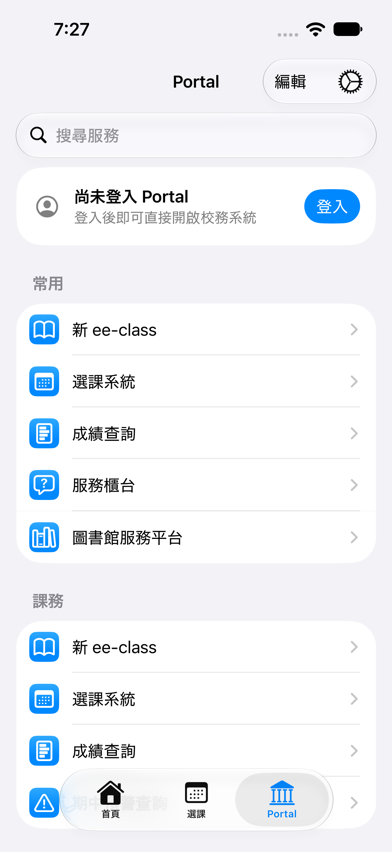
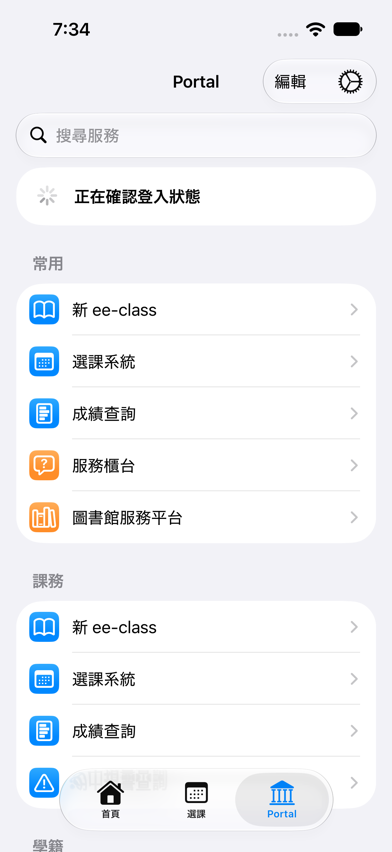
feat(portal): color services by category
Each Portal category gets its own tint, carried by its services so a
favorite keeps its category's color. iOS maps tints to system colors;
Android takes the matching pair from the timetable palette.

diff --git a/shared/src/commonMain/kotlin/org/mpc/data/portal/PortalShortcutCatalog.kt b/shared/src/commonMain/kotlin/org/mpc/data/portal/PortalShortcutCatalog.kt
@@ -5,12 +5,14 @@ import org.mpc.domain.model.PortalShortcutDestination
 import org.mpc.domain.model.PortalShortcutIcon
 import org.mpc.domain.model.PortalShortcutItem
 import org.mpc.domain.model.PortalShortcutSection
+import org.mpc.domain.model.PortalShortcutTint
 import org.mpc.domain.model.portalUrl
 
 /** Every Portal service the app lists, each once, grouped by what it is for. */
 val defaultPortalShortcutSections: List<PortalShortcutSection> = listOf(
-    PortalShortcutSection(
+    section(
         title = "課務",
+        tint = PortalShortcutTint.BLUE,
         items = listOf(
             portalShortcut("新 ee-class", PortalShortcutIcon.BOOK, "/system/ncueeclass"),
             shortcut("選課系統", PortalShortcutIcon.EVENT, "https://cis.ncu.edu.tw/Course/"),
@@ -18,16 +20,18 @@ val defaultPortalShortcutSections: List<PortalShortcutSection> = listOf(
             portalShortcut("期中預警查詢", PortalShortcutIcon.WARNING, "/system/incu-ewarningstudent"),
         ),
     ),
-    PortalShortcutSection(
+    section(
         title = "學籍",
+        tint = PortalShortcutTint.PURPLE,
         items = listOf(
             portalShortcut("學籍系統", PortalShortcutIcon.ACCOUNT_BALANCE, "/system/incu-registrationflow"),
             portalShortcut("畢業資格審查", PortalShortcutIcon.SCHOOL, "/system/incu-graduate-2"),
             portalShortcut("學生證掛失", PortalShortcutIcon.CREDIT_CARD_OFF, "/system/32"),
         ),
     ),
-    PortalShortcutSection(
+    section(
         title = "學費與補助",
+        tint = PortalShortcutTint.GREEN,
         items = listOf(
             portalShortcut("學費繳費單", PortalShortcutIcon.REQUEST_QUOTE, "/system/82"),
             portalShortcut("學費繳費證明", PortalShortcutIcon.REQUEST_QUOTE, "/system/tuition"),
@@ -36,8 +40,9 @@ val defaultPortalShortcutSections: List<PortalShortcutSection> = listOf(
             portalShortcut("撥帳系統", PortalShortcutIcon.ACCOUNT_BALANCE, "/system/46"),
         ),
     ),
-    PortalShortcutSection(
+    section(
         title = "校園服務",
+        tint = PortalShortcutTint.ORANGE,
         items = listOf(
             portalShortcut("服務櫃台", PortalShortcutIcon.SUPPORT_AGENT, "/system/incu"),
             portalShortcut("圖書館服務平台", PortalShortcutIcon.LOCAL_LIBRARY, "/system/library-cloud-services"),
@@ -45,8 +50,9 @@ val defaultPortalShortcutSections: List<PortalShortcutSection> = listOf(
             portalShortcut("人事系統", PortalShortcutIcon.BADGE, "/system/humanoauth"),
         ),
     ),
-    PortalShortcutSection(
+    section(
         title = "網路與帳號",
+        tint = PortalShortcutTint.TEAL,
         items = listOf(
             portalShortcut("NCU Mail", PortalShortcutIcon.MAIL, "/system/129"),
             portalShortcut("宿舍網路", PortalShortcutIcon.WIFI, "/system/dormnet"),
@@ -87,18 +93,29 @@ fun portalLoginDestination(url: String = PORTAL_HOME_URL): PortalShortcutDestina
     url = url,
 )
 
+private typealias TintedShortcut = (PortalShortcutTint) -> PortalShortcutItem
+
+private fun section(
+    title: String,
+    tint: PortalShortcutTint,
+    items: List<TintedShortcut>,
+): PortalShortcutSection = PortalShortcutSection(title = title, items = items.map { it(tint) })
+
 private fun portalShortcut(
     label: String,
     icon: PortalShortcutIcon,
     path: String,
-): PortalShortcutItem = shortcut(label, icon, portalUrl(path))
+): TintedShortcut = shortcut(label, icon, portalUrl(path))
 
 private fun shortcut(
     label: String,
     icon: PortalShortcutIcon,
     url: String,
-): PortalShortcutItem = PortalShortcutItem(
-    label = label,
-    icon = icon,
-    destination = PortalShortcutDestination(title = label, url = url),
-)
+): TintedShortcut = { tint ->
+    PortalShortcutItem(
+        label = label,
+        icon = icon,
+        tint = tint,
+        destination = PortalShortcutDestination(title = label, url = url),
+    )
+}

diff --git a/shared/src/commonMain/kotlin/org/mpc/presentation/PortalScreen.kt b/shared/src/commonMain/kotlin/org/mpc/presentation/PortalScreen.kt
@@ -61,6 +61,7 @@ import androidx.compose.ui.Modifier
 import androidx.compose.ui.draw.clip
 import androidx.compose.ui.graphics.Color
 import androidx.compose.ui.graphics.Shape
+import androidx.compose.ui.graphics.luminance
 import androidx.compose.ui.graphics.vector.ImageVector
 import androidx.compose.ui.text.style.TextAlign
 import androidx.compose.ui.text.style.TextOverflow
@@ -72,6 +73,7 @@ import org.mpc.domain.model.PortalShortcutDestination
 import org.mpc.domain.model.PortalShortcutIcon
 import org.mpc.domain.model.PortalShortcutItem
 import org.mpc.domain.model.PortalShortcutSection
+import org.mpc.presentation.theme.platformTimetablePalette
 import org.mpc.presentation.viewModel.PortalViewModel
 
 @Composable
@@ -293,7 +295,7 @@ private fun PortalShortcutRow(
 ) {
     ListItem(
         headlineContent = { Text(item.label, maxLines = 1, overflow = TextOverflow.Ellipsis) },
-        leadingContent = { PortalShortcutBadge(item.icon) },
+        leadingContent = { PortalShortcutBadge(item) },
         trailingContent = trailingContent,
         colors = ListItemDefaults.colors(containerColor = MaterialTheme.colorScheme.surfaceContainerLow),
         modifier = Modifier
@@ -304,22 +306,30 @@ private fun PortalShortcutRow(
     )
 }
 
+/** The icon on its category color, taken from the palette the timetable uses so the app shares one set of hues. */
 @Composable
-private fun PortalShortcutBadge(icon: PortalShortcutIcon) {
+private fun PortalShortcutBadge(item: PortalShortcutItem) {
+    val palette = platformTimetablePalette(
+        MaterialTheme.colorScheme.background.luminance() < DARK_SURFACE_LUMINANCE_THRESHOLD,
+    )
+    // The palette lists BLUE, GREEN, ORANGE, PURPLE, TEAL first, matching the tint order.
+    val colors = palette[item.tint.ordinal % palette.size]
     Box(
         modifier = Modifier
             .size(40.dp)
-            .background(MaterialTheme.colorScheme.secondaryContainer, CircleShape),
+            .background(colors.container, CircleShape),
         contentAlignment = Alignment.Center,
     ) {
         Icon(
-            imageVector = icon.toImageVector(),
+            imageVector = item.icon.toImageVector(),
             contentDescription = null,
-            tint = MaterialTheme.colorScheme.onSecondaryContainer,
+            tint = colors.content,
             modifier = Modifier.size(22.dp),
         )
     }
 }
+
+private const val DARK_SURFACE_LUMINANCE_THRESHOLD = 0.5f
 
 @Composable
 private fun FavoriteEditControls(

diff --git a/iosApp/iosApp/presentation/PortalView.swift b/iosApp/iosApp/presentation/PortalView.swift
@@ -107,7 +107,7 @@ struct PortalView: View {
             Label {
                 Text(item.label)
             } icon: {
-                PortalShortcutIconView(icon: item.icon)
+                PortalShortcutIconView(icon: item.icon, tint: item.tint)
             }
         }
         .contextMenu { favoriteButton(item, isFavorite: isFavorite) }
@@ -218,13 +218,14 @@ private struct PortalAccountRow: View {
 
 private struct PortalShortcutIconView: View {
     let icon: PortalShortcutIcon
+    let tint: PortalShortcutTint
 
     var body: some View {
         Image(systemName: icon.systemImage)
             .font(.system(size: 15, weight: .semibold))
             .foregroundStyle(.white)
             .frame(width: 30, height: 30)
-            .background(Color.accentColor.gradient, in: .rect(cornerRadius: 7, style: .continuous))
+            .background(tint.color.gradient, in: .rect(cornerRadius: 7, style: .continuous))
             .accessibilityHidden(true)
     }
 }
@@ -235,6 +236,18 @@ private extension PortalAccountAction {
         case .signIn: "登入"
         case .signOut: "登出"
         case .retry: "重試"
+        }
+    }
+}
+
+private extension PortalShortcutTint {
+    var color: Color {
+        switch self {
+        case .blue: .blue
+        case .green: .green
+        case .orange: .orange
+        case .purple: .purple
+        case .teal: .teal
         }
     }
 }

diff --git a/shared/src/commonTest/kotlin/org/mpc/data/portal/PortalShortcutCatalogTest.kt b/shared/src/commonTest/kotlin/org/mpc/data/portal/PortalShortcutCatalogTest.kt
@@ -50,6 +50,12 @@ val portalShortcutCatalogTests by testSuite {
         assertEquals("https://cis.ncu.edu.tw/Course/", item.destination.url)
     }
 
+    test("each category has its own color, shared by its services") {
+        val tints = defaultPortalShortcutSections.map { section -> section.items.map { it.tint }.distinct().single() }
+
+        assertEquals(tints.distinct(), tints)
+    }
+
     test("the catalog lists each service once and every default favorite") {
         val ids = defaultPortalShortcutSections.flatMap { section -> section.items.map { it.id } }
 

diff --git a/shared/src/commonMain/kotlin/org/mpc/domain/model/PortalShortcut.kt b/shared/src/commonMain/kotlin/org/mpc/domain/model/PortalShortcut.kt
@@ -29,9 +29,19 @@ data class PortalShortcutDestination(
     val url: String,
 )
 
+/** A category color. Each platform maps it to its own system palette. */
+enum class PortalShortcutTint {
+    BLUE,
+    GREEN,
+    ORANGE,
+    PURPLE,
+    TEAL,
+}
+
 data class PortalShortcutItem(
     val label: String,
     val icon: PortalShortcutIcon,
+    val tint: PortalShortcutTint,
     val destination: PortalShortcutDestination,
 ) {
     /** Stable across catalog changes that keep the destination, so saved favorites survive relabeling. */
